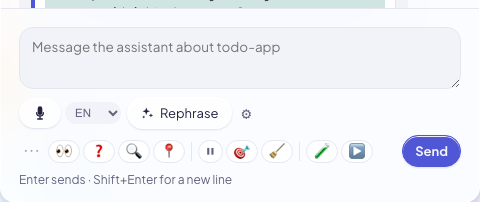
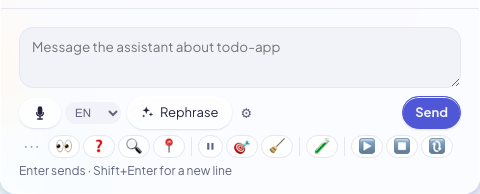
Quick messages: ⏹ stop and 🔃 restart the app, next to ▶
- ⏹ stops everything the app started until nothing listens on its ports; 🔃 stops, rebuilds what changed, starts
  it again and ends with the same App: line (so Open the app shows again)
- the open quick bar takes a row of its own, so Send stays next to the input tools

diff --git a/tools/openspec-dashboard/index.html b/tools/openspec-dashboard/index.html
@@ -322,6 +322,8 @@ span.ch-warn { color: var(--st-progress); }
 .cq-l { font-size: 12px; color: var(--muted); } .cq-v { font-size: 24px; font-weight: 800; letter-spacing: -.02em; color: var(--ink); }
 .cq-s { font-size: 11.5px; color: var(--muted); overflow-wrap: anywhere; }
 .cq-spark { margin-top: 4px; }
+/* the quick messages, open: a row of their own below the input row, so Send stays where it is */
+.qk:has(.qk-bar:not([hidden])) { flex-basis: 100%; order: 99; display: flex; align-items: center; flex-wrap: wrap; }
 .app-row { display: flex; align-items: center; gap: 10px; flex-wrap: wrap; margin: 8px 0 2px; }
 .app-row code { font-size: 12px; overflow-wrap: anywhere; }
 .term-done-row { align-self: center; display: flex; gap: 10px; align-items: center; flex-wrap: wrap; justify-content: center; }
@@ -3958,7 +3960,10 @@ const QUICK = [
   ['🧹', 'Wrap up: finish the current task, update tasks.md, and summarize what is done and what is left.', 'Wrap up'],
   null,
   ['🧪', 'Run the quality gate now and tell me the result; fix nothing yet.', 'Quality gate'],
+  null,
   ['▶', 'Start the app in a clean way: stop whatever of it still runs, build it from a clean state, start it, and tell me whether it came up without errors. End your answer with one line exactly like "App: http://localhost:8080" (its URL), or "App: <command>" when it is not a web app.', 'Start the app'],
+  ['⏹', 'Stop the app: everything of it that runs (dev servers, containers, background commands you started for it), and check that nothing listens on its ports any more. Change no code.', 'Stop the app'],
+  ['🔃', 'Restart the app: stop it, rebuild what changed, start it again, and tell me whether it came up without errors. End your answer with one line exactly like "App: http://localhost:8080" (its URL), or "App: <command>" when it is not a web app.', 'Restart the app'],
 ];
 const quick = { open: false };
 // the app an answer started (▶ asks for a last line "App: <URL or command>"; without it, the first local URL of the
@@ -3969,7 +3974,7 @@ function appOf(text, afterStart) {
   if (m && /^https?:\/\//.test(m)) m = m.split(/[\s`*]/)[0].replace(/[.,;:)]+$/, ''); // a URL: its first word; a command: the line
   return m || null;
 }
-const isStart = (t) => /^▶?\s*Start the app/.test(String(t ?? '').trim());
+const isStart = (t) => /^(▶?\s*Start|🔃\s*Restart) the app/.test(String(t ?? '').trim());
 function appHtml(app) {
   if (!app) return '';
   if (!/^https?:\/\//.test(app)) return `<div class="app-row">▶ App: <code>${esc(app)}</code></div>`;

diff --git a/skills/openspec-ticket-workflow/references/dashboard-messages.md b/skills/openspec-ticket-workflow/references/dashboard-messages.md
@@ -51,6 +51,8 @@ Sent as they are, about no answer in particular:
 | 🧹 | Wrap up: finish the current task, update `tasks.md`, summarize what is done and what is left. |
 | 🧪 | Run the quality gate now and report the result; fix nothing yet. |
 | ▶ | Start the app in a clean way: stop whatever of it still runs (dev servers, containers, old processes), build it from a clean state, start it, and say whether it came up without errors. Use the project's own scripts for this (CLAUDE.md, README); if starting it needs something you cannot do, say what. End the answer with one line `App: <URL>` (e.g. `App: http://localhost:8080`), or `App: <command>` for an app that is not a web app: the dashboard shows it as an "Open the app" button. |
+| ⏹ | Stop the app: everything of it that runs (dev servers, containers, background commands you started for it); check that nothing listens on its ports any more. Change no code. |
+| 🔃 | Restart the app: stop it, rebuild what changed, start it again, say whether it came up without errors, and end with the same `App: <URL or command>` line as for ▶. |
 
 ## What the dashboard reads
 

diff --git a/tools/openspec-dashboard/README.md b/tools/openspec-dashboard/README.md
@@ -392,7 +392,7 @@ Started with `--agent`, the dashboard talks to Claude Code in two places:
     quick messages about no answer in particular, in groups (👀 status, ❓ blockers, 🔍 changes so far, 📍 ticket
     progress · ⏸ pause after this step, 🎯 stay on the ticket, 🧹 wrap up · 🧪 run the quality gate, ▶ start the app cleanly and end with `App: <URL or command>`, which becomes an
     **Open the app ↗** button in the thread, next to ✓ Done and in the background list (`app` in
-    `/api/sessions/status`); without that line the first `localhost`/`127.0.0.1` URL of the answer), sent as they
+    `/api/sessions/status`); without that line the first `localhost`/`127.0.0.1` URL of the answer; ⏹ stops the app, 🔃 restarts it and ends with the same line), sent as they
     are and shown short in the thread. A message typed into a working terminal session is absorbed mid-turn; Claude Code keeps it as a
     `queued_command` attachment in the transcript, which the thread shows like a prompt.
     Reactions show as small badges on the answer they belong to.

diff --git a/skills/openspec-ticket-workflow/SKILL.md b/skills/openspec-ticket-workflow/SKILL.md
@@ -93,7 +93,7 @@ Work through the steps in order. Do not skip a step; if a step does not apply (n
 If the user follows the session in the OpenSpec dashboard, some messages come in a fixed form: reactions and
 requests about one of your answers (`[Reaction 👍 to your message: "…"]`, `[Request 📝 about your message: "…"]`),
 quotes (`[Replying to your message: "…"]`) and quick messages (👀 status, ⏸ pause after this step, 🧪 run the
-quality gate, ▶ start the app cleanly, …). What each one means is in [references/dashboard-messages.md](references/dashboard-messages.md).
+quality gate, ▶ / ⏹ / 🔃 start, stop or restart the app, …). What each one means is in [references/dashboard-messages.md](references/dashboard-messages.md).
 Answer such a message briefly at the next sensible point and continue, unless it asks you to stop or wait.
 
 ## Report

diff --git a/docs/user-guide.md b/docs/user-guide.md
@@ -314,6 +314,8 @@ thread shows each one short, e.g. **👀 Status**.
   ends that answer with a line `App: <URL>` (or `App: <command>`); the dashboard turns it into an **Open the app ↗**
   button, in the answer, next to **✓ Done** at the end of the thread and in the background list. Without that line
   it takes the first local URL of the answer (on a phone or tablet, `localhost` becomes the computer's address).
+  ⏹ stops the app (everything it started, until nothing listens on its ports), 🔃 restarts it (stop, rebuild what
+  changed, start) and ends with the same `App:` line.
 
 ![Quick messages under the input box](images/dashboard-quick-messages.png)
 
